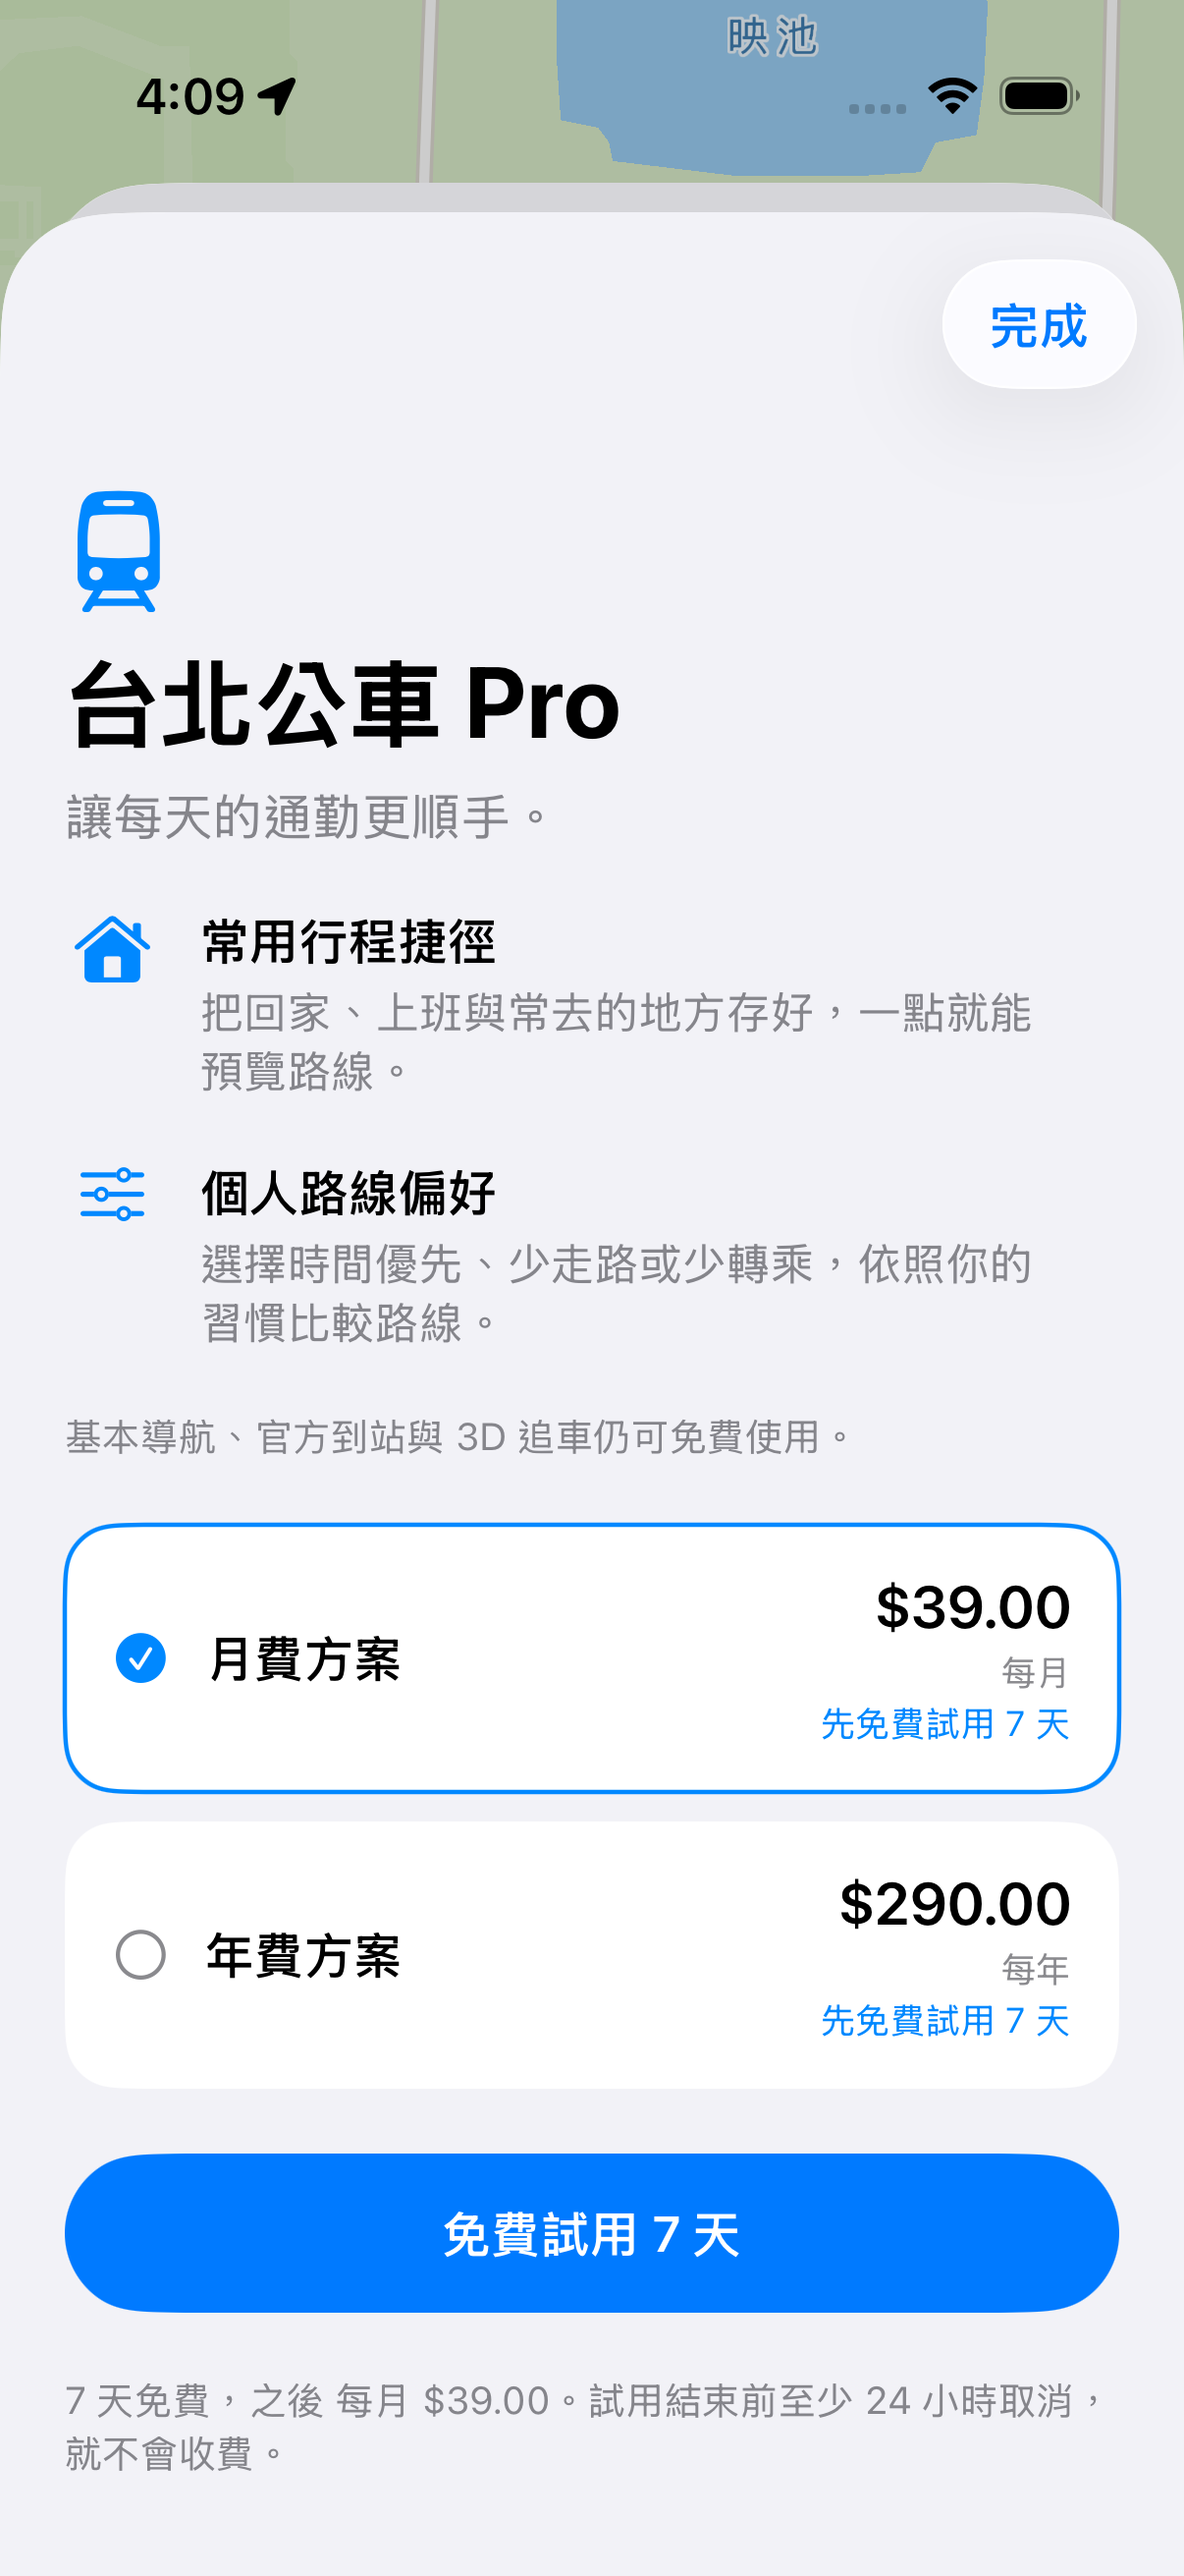
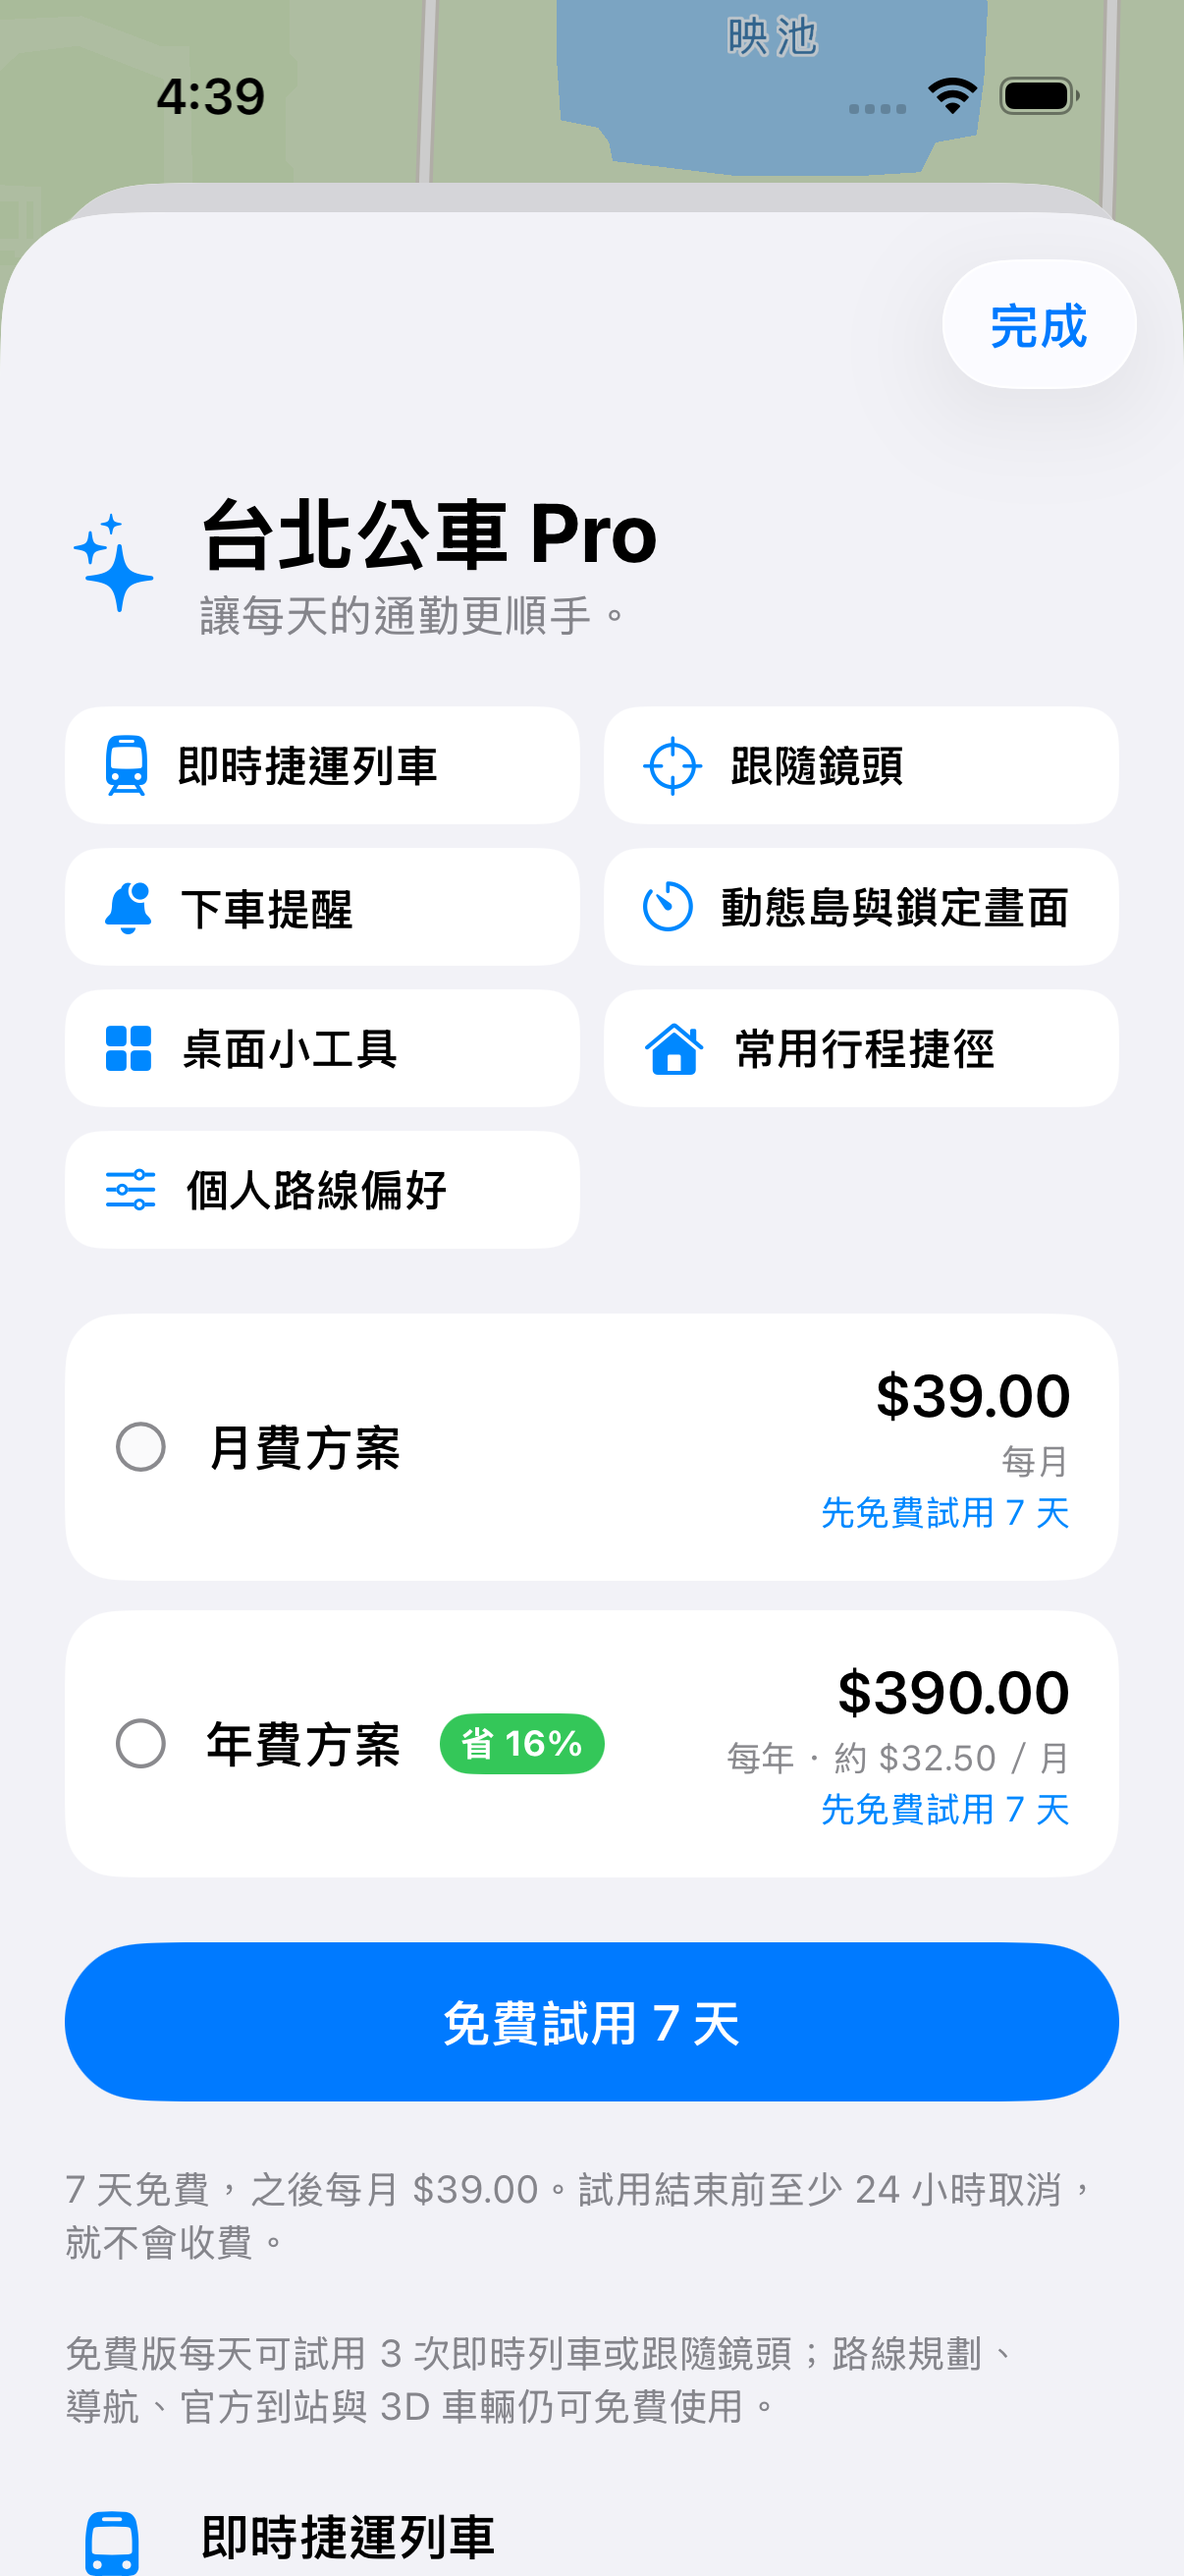
Finalize approved App Store gallery and subscription review images

diff --git a/ios/usability/ProUsabilityTests.swift b/ios/usability/ProUsabilityTests.swift
@@ -61,15 +61,24 @@ final class ProUsabilityTests: JourneyUsabilityTestBase {
         if back.waitForExistence(timeout:5) { back.tap() }
         if button("完成").exists { button("完成").tap() }
         button("home-destination-search").tap(); chooseNeihu()
+        XCTAssertTrue(firstOption.waitForExistence(timeout:150), "Wait for the route sheet to settle before opening its menu")
         let more = button("journey-plan-more")
         XCTAssertTrue(more.waitForExistence(timeout:30)); more.tap()
         let saveAction = button("journey-save-pro")
         XCTAssertTrue(saveAction.waitForExistence(timeout:10))
-        // The system menu reports an invalid activation point while presented
-        // above a detented sheet. Use the visible row's actual centre.
-        saveAction.coordinate(withNormalizedOffset:CGVector(dx:0.5,dy:0.5)).tap()
-        capture("pro-save-action-selected")
         let title = app.textFields["commute-title"]
+        // A system menu above a detented sheet can move while the sheet settles.
+        // Tap its current on-screen bounds, then retry only if the menu is still
+        // visible (the previous tap did not select anything).
+        for _ in 0..<2 {
+            let frame = saveAction.frame
+            XCTAssertTrue(app.frame.contains(CGPoint(x:frame.midX,y:frame.midY)))
+            app.coordinate(withNormalizedOffset:.zero)
+                .withOffset(CGVector(dx:frame.midX,dy:frame.midY)).tap()
+            if title.waitForExistence(timeout:10) { break }
+            guard saveAction.exists && saveAction.isHittable else { break }
+        }
+        capture("pro-save-action-selected")
         XCTAssertTrue(title.waitForExistence(timeout:10)); title.tap()
         if let text = title.value as? String { title.typeText(String(repeating:XCUIKeyboardKey.delete.rawValue,count:text.count)) }
         title.typeText("回家")
